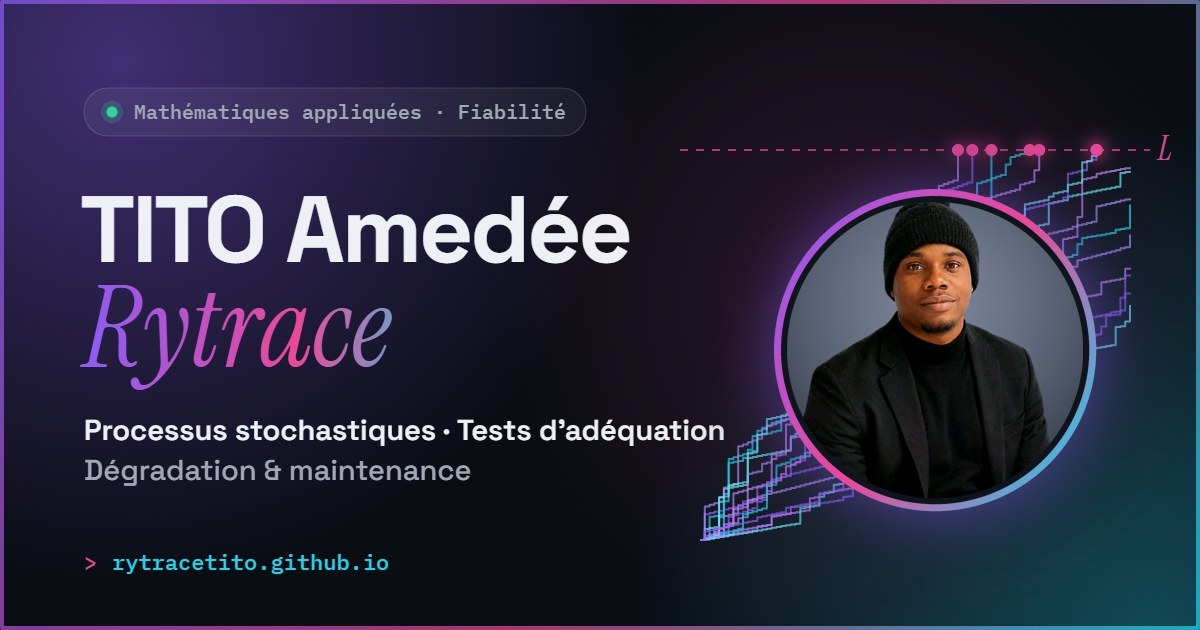
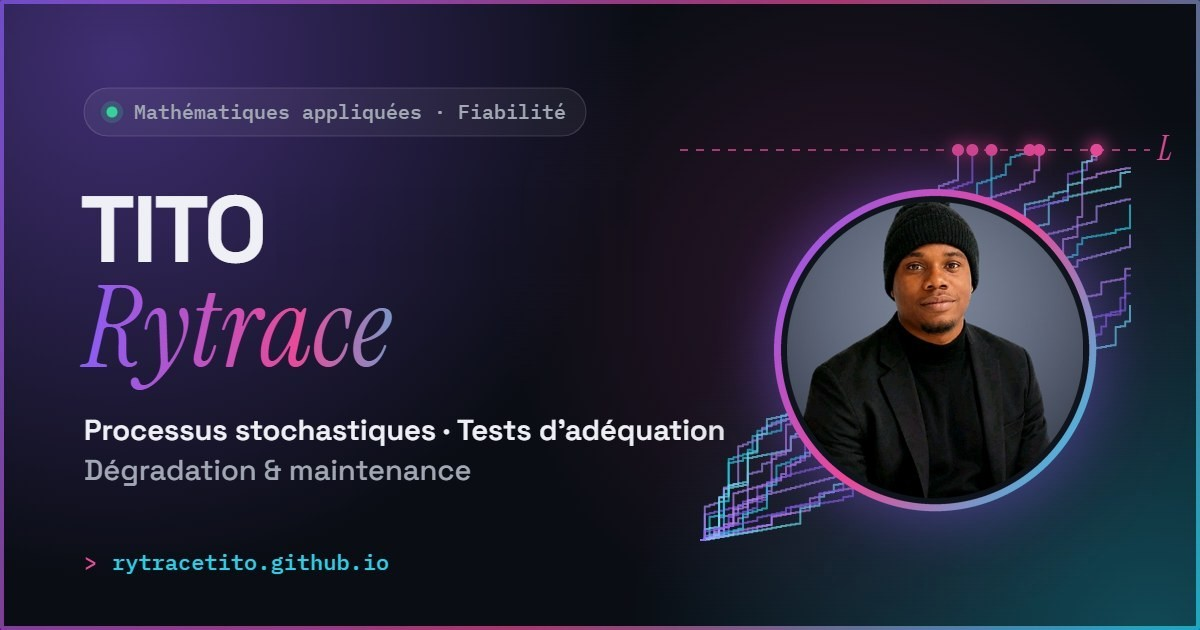
Nom affiché : TITO Rytrace

Changed region(s): [[0.2158, 0.3016, 0.5242, 0.4222]]

diff --git a/index.html b/index.html
@@ -4,17 +4,17 @@
   <meta charset="UTF-8">
   <meta name="viewport" content="width=device-width, initial-scale=1.0">
 
-  <title>TITO Amedée Rytrace | Statistique, processus stochastiques & fiabilité</title>
+  <title>TITO Rytrace | Statistique, processus stochastiques & fiabilité</title>
   <meta name="description"
-        content="TITO Amedée Rytrace, doctorant au LMAP (Université de Pau) : tests d'adéquation pour les processus de dégradation Gamma et Wiener, maintenance imparfaite.">
-  <meta name="author" content="TITO Amedée Rytrace">
+        content="TITO Rytrace (Amedée Rytrace TITO), doctorant au LMAP (Université de Pau) : tests d'adéquation pour les processus de dégradation et maintenance imparfaite.">
+  <meta name="author" content="TITO Rytrace">
   <meta name="theme-color" content="#0a0d14">
   <link rel="canonical" href="https://rytracetito.github.io/">
 
   <!-- Aperçu lors du partage (LinkedIn, WhatsApp, X…) -->
   <meta property="og:type" content="website">
   <meta property="og:url" content="https://rytracetito.github.io/">
-  <meta property="og:title" content="TITO Amedée Rytrace | Statistique & fiabilité">
+  <meta property="og:title" content="TITO Rytrace | Statistique & fiabilité">
   <meta property="og:description" content="Processus de dégradation, tests d'adéquation et maintenance imparfaite. Recherche, projets et simulateur interactif.">
   <meta property="og:image" content="https://rytracetito.github.io/assets/og-image.jpg">
   <meta property="og:image:width" content="1200">
@@ -50,8 +50,8 @@
   {
     "@context": "https://schema.org",
     "@type": "Person",
-    "name": "TITO Amedée Rytrace",
-    "alternateName": ["Amedée Rytrace TITO", "Rytrace TITO", "Rytrace Tito", "Amedee Rytrace Tito", "Tito Amedee Rytrace"],
+    "name": "TITO Rytrace",
+    "alternateName": ["TITO Amedée Rytrace", "Amedée Rytrace TITO", "Tito Amedée", "Rytrace TITO", "Rytrace Tito", "Amedee Rytrace Tito", "Tito Amedee Rytrace"],
     "givenName": "Amedée Rytrace",
     "familyName": "TITO",
     "url": "https://rytracetito.github.io/",
@@ -162,7 +162,7 @@
             <span data-en-html="PhD candidate · &lt;a class=&quot;org&quot; href=&quot;https://lma-umr5142.univ-pau.fr/&quot; target=&quot;_blank&quot; rel=&quot;noopener&quot;&gt;Laboratory of Mathematics and their Applications of Pau (LMAP)&lt;/a&gt;, &lt;a class=&quot;org&quot; href=&quot;https://www.univ-pau.fr/&quot; target=&quot;_blank&quot; rel=&quot;noopener&quot;&gt;University of Pau and the Adour Region (UPPA)&lt;/a&gt;">Doctorant · <a class="org" href="https://lma-umr5142.univ-pau.fr/" target="_blank" rel="noopener">Laboratoire de Mathématiques et de leurs Applications de Pau (LMAP)</a>, <a class="org" href="https://www.univ-pau.fr/" target="_blank" rel="noopener">Université de Pau et des Pays de l'Adour (UPPA)</a></span>
           </span>
 
-          <h1 class="name">TITO Amedée<br><span class="name-last">Rytrace</span></h1>
+          <h1 class="name">TITO<br><span class="name-last">Rytrace</span></h1>
 
           <p class="tagline" data-en="Applied statistics • Stochastic processes • Reliability">
             Statistique appliquée • Processus stochastiques • Fiabilité
@@ -197,7 +197,7 @@
             <div class="ring-dot"></div>
             <div class="avatar-circle">
               <span class="monogram">TR</span>
-              <img src="assets/photo-400.webp" srcset="assets/photo-400.webp 400w, assets/photo-640.webp 640w, assets/photo.webp 800w" sizes="320px" alt="TITO Amedée Rytrace" width="800" height="800" loading="eager" fetchpriority="high" decoding="async" onerror="this.remove()">
+              <img src="assets/photo-400.webp" srcset="assets/photo-400.webp 400w, assets/photo-640.webp 640w, assets/photo.webp 800w" sizes="320px" alt="TITO Rytrace" width="800" height="800" loading="eager" fetchpriority="high" decoding="async" onerror="this.remove()">
             </div>
           </div>
 
@@ -872,7 +872,7 @@
 
   <footer class="site-footer">
     <div class="wrap footer-inner">
-      <span>© <span id="year">2026</span> TITO Amedée Rytrace</span>
+      <span>© <span id="year">2026</span> TITO Rytrace</span>
       <span class="footer-updated" data-en="Last updated: 28 September 2026">Dernière mise à jour : 28 septembre 2026</span>
       <span class="footer-note" data-en="Hand-coded in HTML, CSS &amp; JavaScript · Hosted on GitHub Pages">Codé à la main en HTML, CSS &amp; JavaScript · Hébergé sur GitHub Pages</span>
     </div>

diff --git a/script.js b/script.js
@@ -1,5 +1,5 @@
 /* =========================================================
-   TITO Amedée Rytrace, interactions du site
+   TITO Rytrace, interactions du site
    Langue, thème, menu mobile, défilement, animations,
    copie de l'e-mail et fond animé du hero.
 ========================================================= */
@@ -24,8 +24,8 @@
 
   var TEXTS = {
     fr: {
-      title: 'TITO Amedée Rytrace | Statistique, processus stochastiques & fiabilité',
-      description: "TITO Amedée Rytrace | doctorant au LMAP (Université de Pau et des Pays de l'Adour) : tests d'adéquation pour les processus de dégradation Gamma et Wiener, avec ou sans maintenance imparfaite.",
+      title: 'TITO Rytrace | Statistique, processus stochastiques & fiabilité',
+      description: "TITO Rytrace (Amedée Rytrace TITO), doctorant au LMAP (Université de Pau) : tests d'adéquation pour les processus de dégradation et maintenance imparfaite.",
       copied: 'Adresse copiée dans le presse-papiers',
       copyFailed: 'Copie impossible : ',
       menuOpen: 'Ouvrir le menu',
@@ -39,8 +39,8 @@
       ]
     },
     en: {
-      title: 'TITO Amedée Rytrace | Statistics, stochastic processes & reliability',
-      description: 'TITO Amedée Rytrace | PhD candidate at LMAP (University of Pau): goodness-of-fit tests for Gamma and Wiener degradation processes, with or without imperfect maintenance.',
+      title: 'TITO Rytrace | Statistics, stochastic processes & reliability',
+      description: 'TITO Rytrace (Amedée Rytrace TITO), PhD candidate at LMAP (University of Pau): goodness-of-fit tests for degradation processes and imperfect maintenance.',
       copied: 'Address copied to clipboard',
       copyFailed: 'Could not copy: ',
       menuOpen: 'Open menu',

diff --git a/404.html b/404.html
@@ -4,7 +4,7 @@
   <meta charset="UTF-8">
   <meta name="viewport" content="width=device-width, initial-scale=1.0">
   <meta name="robots" content="noindex">
-  <title>Page introuvable | TITO Amedée Rytrace</title>
+  <title>Page introuvable | TITO Rytrace</title>
   <link rel="icon" href="/assets/favicon.svg" type="image/svg+xml">
   <script>
     (function () {
@@ -62,7 +62,7 @@
       if (!lang) lang = (navigator.language || 'fr').toLowerCase().indexOf('fr') === 0 ? 'fr' : 'en';
       if (lang !== 'en') return;
       document.documentElement.lang = 'en';
-      document.title = 'Page not found | TITO Amedée Rytrace';
+      document.title = 'Page not found | TITO Rytrace';
       document.getElementById('nf-title').innerHTML = 'This page has crossed its <em>failure threshold</em>.';
       document.getElementById('nf-text').textContent = "It doesn't exist, or no longer does. No maintenance can restore it to new.";
       document.getElementById('nf-home').textContent = 'Back to home';

diff --git a/style.css b/style.css
@@ -1,5 +1,5 @@
 /* =========================================================
-   TITO Amedée Rytrace, feuille de style
+   TITO Rytrace, feuille de style
    Sommaire : 1. Variables  2. Base  3. Fond & barre latérale
    4. Navigation  5. Sections  6. Hero  7. Cartes & tags
    8. À propos  9. Parcours  10. Recherche  11. Laboratoire

diff --git a/README.md b/README.md
@@ -1,6 +1,6 @@
 # rytracetito.github.io
 
-Site personnel de **TITO Amedée Rytrace** : statistique, processus stochastiques et fiabilité.
+Site personnel de **TITO Rytrace** : statistique, processus stochastiques et fiabilité.
 En ligne sur <https://rytracetito.github.io>.
 
 Site statique (HTML, CSS, JavaScript), sans framework ni étape de compilation, hébergé par GitHub Pages.
